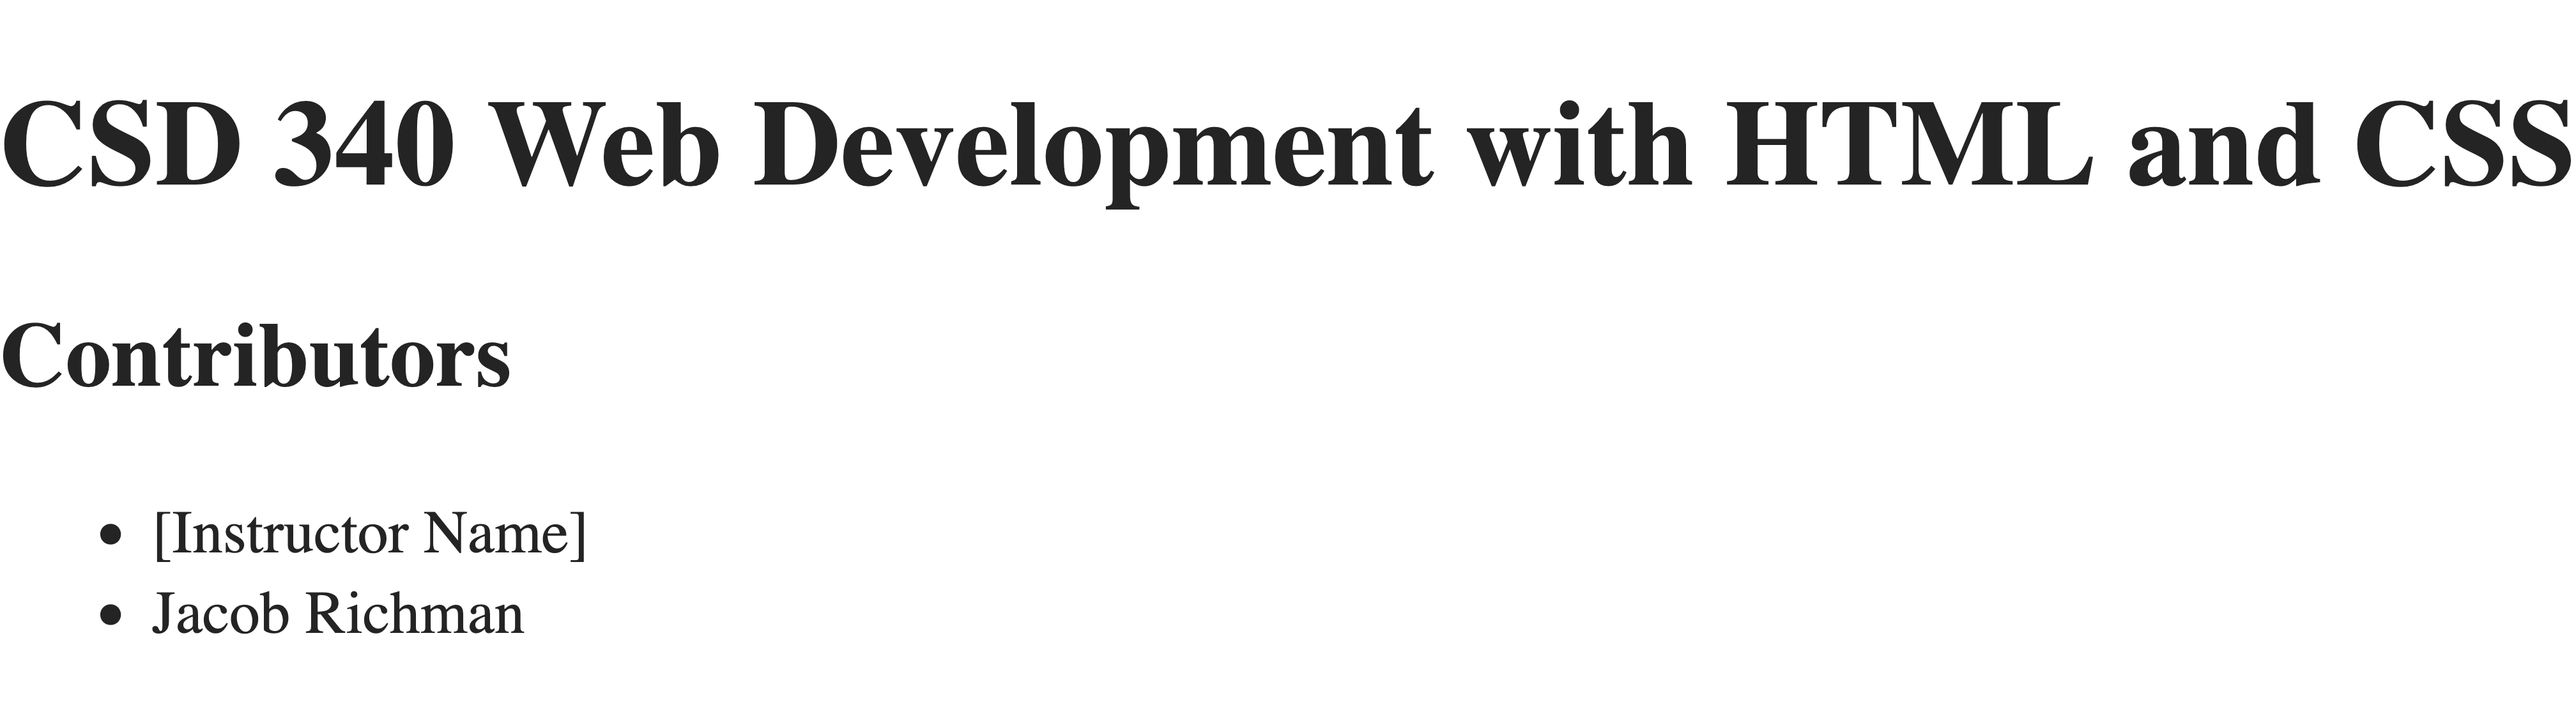
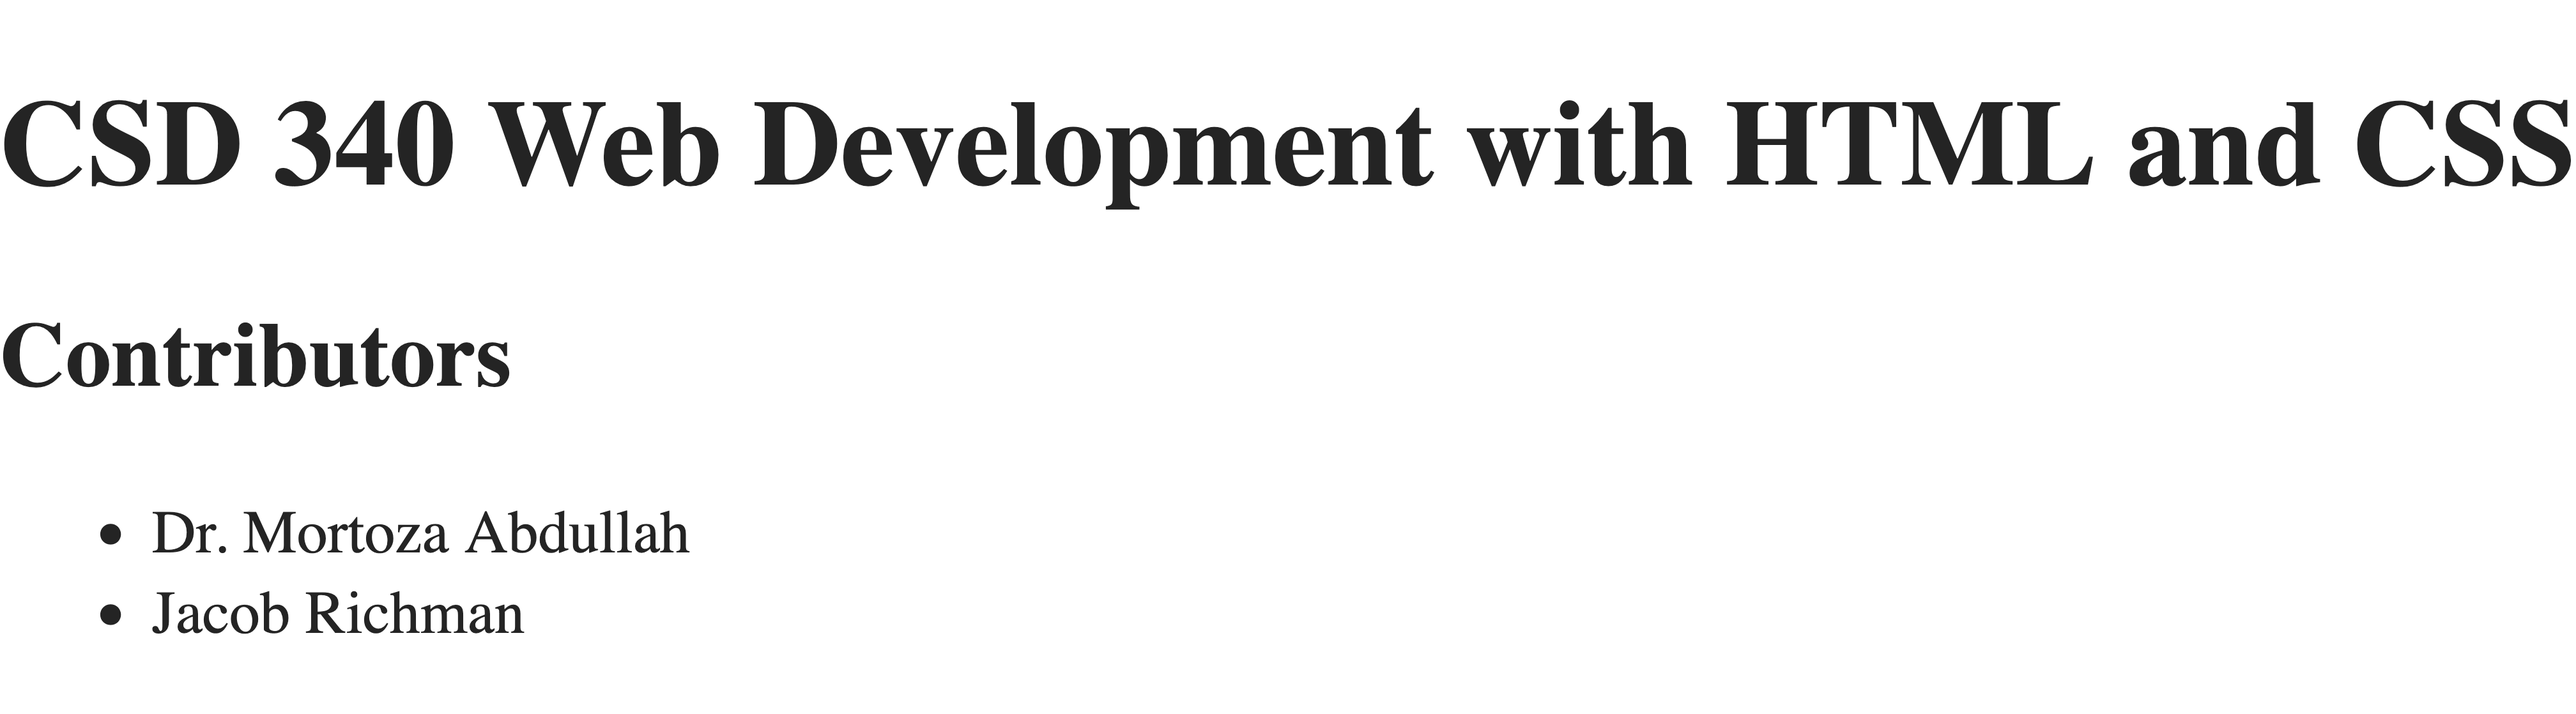
Updated README

Changed region(s): [[0.0625, 0.6995, 0.2812, 0.7907]]

diff --git a/README.md b/README.md
@@ -1,8 +1,7 @@
-<Markdown>
-# csd-340
+ain Text
 CSD 340 Web Development with HTML and CSS
-
-##Contributors
-
-    -Dr. Mortoza Abdullah
-    -Jacob Richman
+ 
+Contributors
+ 
+• Dr. Mortoza Abdullah
+• Jacob Richman
